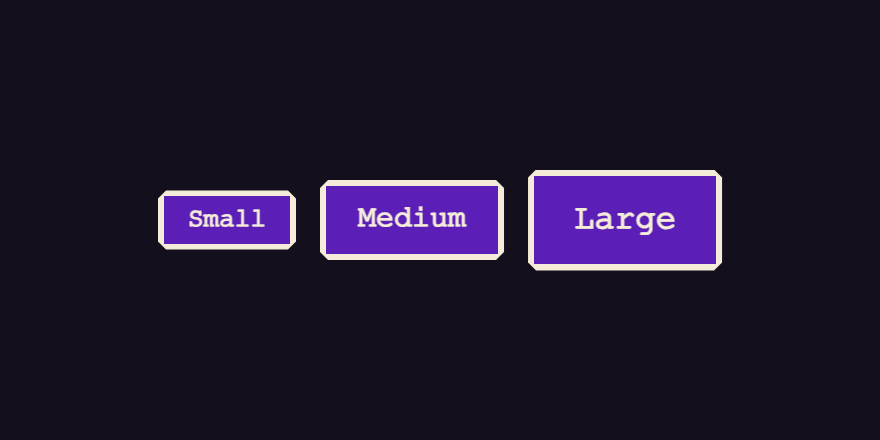
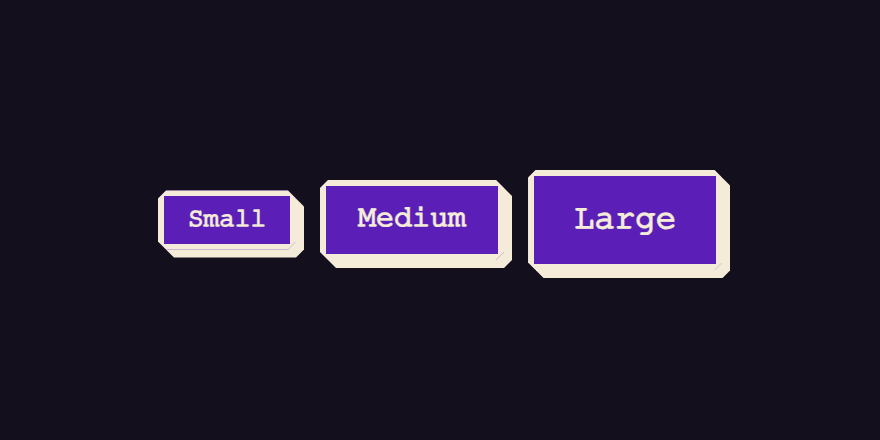
fix(button): slam-flat press, visible pixel shadow, animated loading spinner

diff --git a/src/components/atoms/Button/Button.module.css b/src/components/atoms/Button/Button.module.css
@@ -12,8 +12,12 @@
       transform var(--dur-fast) var(--ease-out),
       box-shadow var(--dur-fast) var(--ease-out),
       background-color var(--dur-fast) var(--ease-out),
-      border-color var(--dur-fast) var(--ease-out),
-      filter var(--dur-fast) var(--ease-out);
+      border-color var(--dur-fast) var(--ease-out);
+  }
+
+  .frame {
+    display: inline-flex;
+    position: relative;
   }
 
   .button:focus-visible {
@@ -56,13 +60,13 @@
 
   /* Interaction choreography — rest/hover/press. See docs/adr/0009. */
   .primary:hover:not(:disabled) {
-    transform: translate(-1px, -1px);
+    transform: translate(-3px, -3px);
     background-color: var(--color-accent-hover);
     box-shadow: var(--shadow-raised-hover);
   }
 
   .danger:hover:not(:disabled) {
-    transform: translate(-1px, -1px);
+    transform: translate(-3px, -3px);
     background-color: var(--color-danger-hover);
     box-shadow: var(--shadow-raised-hover);
   }
@@ -96,18 +100,15 @@
     color: var(--color-text-muted);
   }
 
+  /* Loading is essential feedback, so the spinner keeps turning even under
+     reduced motion; the reduced-motion block below only drops lift/press. */
   .spinner {
     width: 1em;
     height: 1em;
     border: 2px solid currentcolor;
     border-top-color: transparent;
     border-radius: 50%;
-  }
-
-  @media (prefers-reduced-motion: no-preference) {
-    .spinner {
-      animation: ds-button-spin 0.6s linear infinite;
-    }
+    animation: ds-button-spin 0.6s linear infinite;
   }
 
   @keyframes ds-button-spin {
@@ -128,7 +129,7 @@
     border: 0;
   }
 
-  /* Pixel skin: sharp corners, notched silhouette, hard stepped shadow. */
+  /* Pixel skin: sharp corners, notched silhouette. */
   :global([data-skin='pixel']) .button {
     border-radius: 0;
     box-shadow: none;
@@ -144,25 +145,26 @@
     );
   }
 
-  :global([data-skin='pixel']) .button.primary,
-  :global([data-skin='pixel']) .button.danger {
-    filter: drop-shadow(2px 2px 0 var(--color-border-strong))
-      drop-shadow(4px 4px 0 var(--color-border-strong));
-  }
-
-  /* Pixel hover: the stepped shadow grows chunkier. */
-  :global([data-skin='pixel']) .button.primary:hover:not(:disabled),
-  :global([data-skin='pixel']) .button.danger:hover:not(:disabled) {
-    box-shadow: none;
-    filter: drop-shadow(3px 3px 0 var(--color-border-strong))
-      drop-shadow(6px 6px 0 var(--color-border-strong));
-  }
-
-  /* Pixel press: the stepped shadow collapses flat onto the page. */
-  :global([data-skin='pixel']) .button.primary:active:not(:disabled),
-  :global([data-skin='pixel']) .button.danger:active:not(:disabled) {
-    box-shadow: none;
-    filter: none;
+  /* The notch clip-path clips any shadow on the button itself, so the offset
+     shadow lives on the non-clipped frame behind it (see docs/adr/0009). */
+  :global([data-skin='pixel']) .frame:has(> .primary:not(:disabled))::before,
+  :global([data-skin='pixel']) .frame:has(> .danger:not(:disabled))::before {
+    content: '';
+    position: absolute;
+    inset: 0;
+    z-index: -1;
+    background-color: var(--color-border-strong);
+    transform: translate(4px, 4px);
+    clip-path: polygon(
+      4px 0,
+      calc(100% - 4px) 0,
+      100% 4px,
+      100% calc(100% - 4px),
+      calc(100% - 4px) 100%,
+      4px 100%,
+      0 calc(100% - 4px),
+      0 4px
+    );
   }
 
   /* clip-path clips an outer outline; inset a thick ring with a fill-coloured

diff --git a/src/components/atoms/Button/Button.tsx b/src/components/atoms/Button/Button.tsx
@@ -40,20 +40,22 @@ export function Button({
     .join(' ');
 
   return (
-    <button
-      type={type}
-      className={classes}
-      disabled={disabled || loading}
-      aria-busy={loading || undefined}
-      {...rest}
-    >
-      {loading ? (
-        <>
-          <span className={styles.spinner} aria-hidden="true" />
-          <span className={styles.srOnly}>{t('button.loading')}</span>
-        </>
-      ) : null}
-      <span>{children}</span>
-    </button>
+    <span className={styles.frame}>
+      <button
+        type={type}
+        className={classes}
+        disabled={disabled || loading}
+        aria-busy={loading || undefined}
+        {...rest}
+      >
+        {loading ? (
+          <>
+            <span className={styles.spinner} aria-hidden="true" />
+            <span className={styles.srOnly}>{t('button.loading')}</span>
+          </>
+        ) : null}
+        <span>{children}</span>
+      </button>
+    </span>
   );
 }

diff --git a/src/components/atoms/Button/Button.test.tsx b/src/components/atoms/Button/Button.test.tsx
@@ -37,6 +37,14 @@ describe('Button edge cases', () => {
     expect(button?.textContent).toContain('Loading');
   });
 
+  test('loading spinner has a running spin animation', async () => {
+    await mount(<Loading />);
+    const spinner = container.querySelector('[aria-hidden="true"]');
+    const anim = spinner ? getComputedStyle(spinner).animationName : 'none';
+    expect(anim).not.toBe('none');
+    expect(anim).not.toBe('');
+  });
+
   test('disabled button does not fire onClick', async () => {
     const onClick = fn();
     await mount(<Disabled onClick={onClick} />);

diff --git a/src/styles/tokens.css b/src/styles/tokens.css
@@ -103,7 +103,7 @@
     --dur-press: 110ms;
     --ease-out: cubic-bezier(0.33, 1, 0.68, 1);
     --press-offset: 4px;
-    --shadow-raised-hover: 6px 6px 0 var(--color-border-strong);
+    --shadow-raised-hover: 7px 7px 0 var(--color-border-strong);
     --shadow-pressed: 0 0 0 var(--color-border-strong);
   }
 

diff --git a/docs/adr/0009-interaction-motion-states.md b/docs/adr/0009-interaction-motion-states.md
@@ -18,27 +18,41 @@ Button owns the canonical interaction choreography; every future interactive ato
 tokens and the same rest → hover → press story.
 
 - **Rest** — the offset shadow (`--shadow-raised`), no transform.
-- **Hover** — the control lifts `translate(-1px, -1px)` and the offset shadow grows to
-  `--shadow-raised-hover` (`6px 6px 0`); the fill brightens via the existing `--color-accent-hover` /
+- **Hover** — the control lifts `translate(-3px, -3px)` and the offset shadow grows to
+  `--shadow-raised-hover` (`7px 7px 0`); the fill brightens via the existing `--color-accent-hover` /
   `--color-danger-hover` tokens. "Rises to meet you."
-- **Active / press** — the control collapses onto its shadow: `translate(--press-offset)` (4px, equal
-  to the rest shadow offset) while the shadow goes flat (`--shadow-pressed`, `0 0 0`). The fill
-  darkens to the `-active` token. This is the signature press — the control presses into the page.
+- **Active / press** — the control slams flat: `translate(--press-offset)` (4px, equal to the rest
+  shadow offset) drops it onto its own shadow while the shadow collapses to `--shadow-pressed`
+  (`0 0 0`). The fill darkens to the `-active` token. This is the signature press — the control drops
+  onto the page and its elevation disappears.
+
+Elevation is encoded by shadow thickness on one axis, with the ground fixed: the shadow's outer edge
+sits at the same place in every state, so `translate + shadow offset` is constant (rest `0 + 4`,
+hover `-3 + 7`, press `4 + 0`, all `4`). Thickness reads hover 7 > rest 4 > press 0; the page never
+moves, only the control rises and slams flat. The neutral intent has no shadow and keeps a subtle
+`translate(-1px, -1px)` hover / `translate(1px, 1px)` press.
 - **Focus-visible** — the focus ring from ADR 0006 is kept. In the pixel skin a `clip-path` would clip
   an outer outline, so the ring is inset; it is now a thicker ring (`--border-width-thick`) set further
   in (`outline-offset: -7px`) so a band of fill colour separates the parchment ring from the parchment
   frame and it reads clearly in the dark-pixel mode.
 - **Disabled** — flat: no shadow, no transform, muted fill (house style still prefers not disabling).
-- **Loading** — the spinner is unchanged; a loading button is `disabled`, so every interaction rule
-  (`:not(:disabled)`) already suppresses the press transform.
+- **Loading** — a loading button is `disabled`, so every interaction rule (`:not(:disabled)`) already
+  suppresses the press transform and its shadow. The spinner is essential progress feedback, so its
+  spin runs unconditionally — it is not gated behind `prefers-reduced-motion: no-preference`.
 
 Motion is asymmetric: hover and release settle smoothly over `--dur-fast` (200ms) with
 `--ease-out` (`cubic-bezier(.33, 1, .68, 1)`, easeOutCubic), while press-in runs faster over
 `--dur-press` (110ms, set on `:active`) so clicks stay immediate. It transitions only
-`transform` / `box-shadow` / `background-color` / `border-color` (plus `filter`, for the pixel
-skin's stepped shadow) so neighbours never reflow. The
-pixel skin harmonises: its stepped hard shadow (a `drop-shadow` stack) grows on hover and collapses
-to `none` on press, keeping zero radius and the notched silhouette.
+`transform` / `box-shadow` / `background-color` / `border-color` so neighbours never reflow.
+
+The pixel skin keeps the notched silhouette and zero radius, but its hard offset shadow needs a
+different mechanism: a `clip-path` notch on the button clips any shadow drawn on the button itself
+(`box-shadow`, `filter`, or a pseudo-element the clip also contains), which is why the earlier
+`drop-shadow` stack was invisible. The shadow therefore lives on a non-clipped wrapper (`.frame`)
+behind the button — a `::before` carrying the same notch `clip-path`, offset `4px 4px` and filled
+with `--color-border-strong`. It is static; the button's own hover (`-3px`) and press (`+4px`)
+transforms slide it across that fixed shadow, so the visible thickness grows to `7` on hover and
+collapses to `0` on press — the same slam model, driven by the same tokens.
 
 The interaction values live as tokens in `tokens.css` (`--dur-fast`, `--dur-press`, `--ease-out`, `--press-offset`,
 `--shadow-raised-hover`, `--shadow-pressed`); the `:hover` / `:active` / `:focus-visible` rules live in
@@ -47,11 +61,13 @@ CSS — the token contract (ADR 0003) is unchanged.
 
 ## Accessibility
 
-All motion is wrapped so `@media (prefers-reduced-motion: reduce)` disables transitions and the
+Interaction motion is wrapped so `@media (prefers-reduced-motion: reduce)` disables transitions and the
 lift/press transforms. The state cues survive without movement: hover still brightens the fill and
 grows the shadow (an instant change), press still darkens the fill and flattens the shadow, and the
-neutral intent darkens its border on press. Every state keeps its WCAG 2.1 AA contrast (ADR 0006); the
-gate is never loosened to accommodate a state colour.
+neutral intent darkens its border on press. The loading spinner is the one exception — it keeps
+spinning, because a dead static spinner would stop conveying that the action is in progress. Every
+state keeps its WCAG 2.1 AA contrast (ADR 0006); the gate is never loosened to accommodate a state
+colour.
 
 ## Consequences
 

diff --git a/docs/ARCHITECTURE.md b/docs/ARCHITECTURE.md
@@ -94,7 +94,7 @@ not in `tokens.css`:
 
 - the pixel `@font-face` declaration,
 - `image-rendering: pixelated` on relevant surfaces,
-- stepped multi-shadow stacks (faked hard pixel shadows),
+- the pixel skin's notched offset shadow geometry (a non-clipped frame `::before`, offset in raw px),
 - notched / stepped borders.
 
 This is a **documented, deliberate** carve-out: these are structural style rules, not design tokens,
@@ -104,18 +104,22 @@ so forcing them through the token layer would distort it. Colour still comes fro
 
 The offset shadow is a physical affordance, so it responds to interaction — this is the house
 standard, defined once on Button and reused by every future interactive atom (ADR 0009). Rest shows
-the flat `--shadow-raised`; hover lifts the control `translate(-1px, -1px)` and grows the shadow to
-`--shadow-raised-hover`; the signature press collapses it onto the page — `translate(--press-offset)`
-(equal to the rest offset) with the shadow flattened to `--shadow-pressed`. The pixel skin harmonises
-with its stepped `drop-shadow` stack growing and collapsing the same way.
+the flat `--shadow-raised` (`4px`, the ground reference); hover lifts the control
+`translate(-3px, -3px)` and grows the shadow to `--shadow-raised-hover` (`7px`); the signature press
+slams flat — `translate(--press-offset)` (`4px`) drops the control onto its shadow while the shadow
+collapses to `--shadow-pressed` (`0`).
+Elevation is shadow thickness (7 > 4 > 0) with the ground fixed: `translate + shadow offset` stays `4`
+in every state. The pixel skin gets the same model through a non-clipped `.frame` wrapper whose
+`::before` carries the offset shadow, because the button's notch `clip-path` would clip a shadow drawn
+on the button itself.
 
 Motion is tokenised and asymmetric: hover and release settle over `--dur-fast` (200ms) with
 `--ease-out` (easeOutCubic), press-in is quicker at `--dur-press` (110ms). It transitions only
-`transform` / `box-shadow` / `background-color` / `border-color` (and `filter` for the pixel skin),
-so neighbours never reflow. All motion is wrapped in
-`@media (prefers-reduced-motion: reduce)`, which disables transitions and transforms while keeping the
-colour and shadow state cues, so states stay distinguishable without movement. Every state holds WCAG
-2.1 AA (ADR 0006).
+`transform` / `box-shadow` / `background-color` / `border-color`, so neighbours never reflow. Interaction
+motion is wrapped in `@media (prefers-reduced-motion: reduce)`, which disables transitions and transforms
+while keeping the colour and shadow state cues, so states stay distinguishable without movement; the
+loading spinner is exempt and keeps turning, since it is essential progress feedback. Every state holds
+WCAG 2.1 AA (ADR 0006).
 
 ## CSS Modules + `@layer`
 

diff --git a/docs/visual-validation.md b/docs/visual-validation.md
@@ -33,7 +33,7 @@ Modes are driven through the Storybook iframe globals query parameter, e.g.
 
 - Colours are correct for the theme (not the wrong theme's palette).
 - The pixel skin actually looks pixel: hard edges, zero border-radius, the pixel/mono
-  font, stepped hard shadow, notched corners.
+  font, hard offset shadow, notched corners.
 - Dark mode is legible.
 - Text contrast reads as AA (the automated a11y gate is the hard proof; this is the
   eyes-on cross-check).
